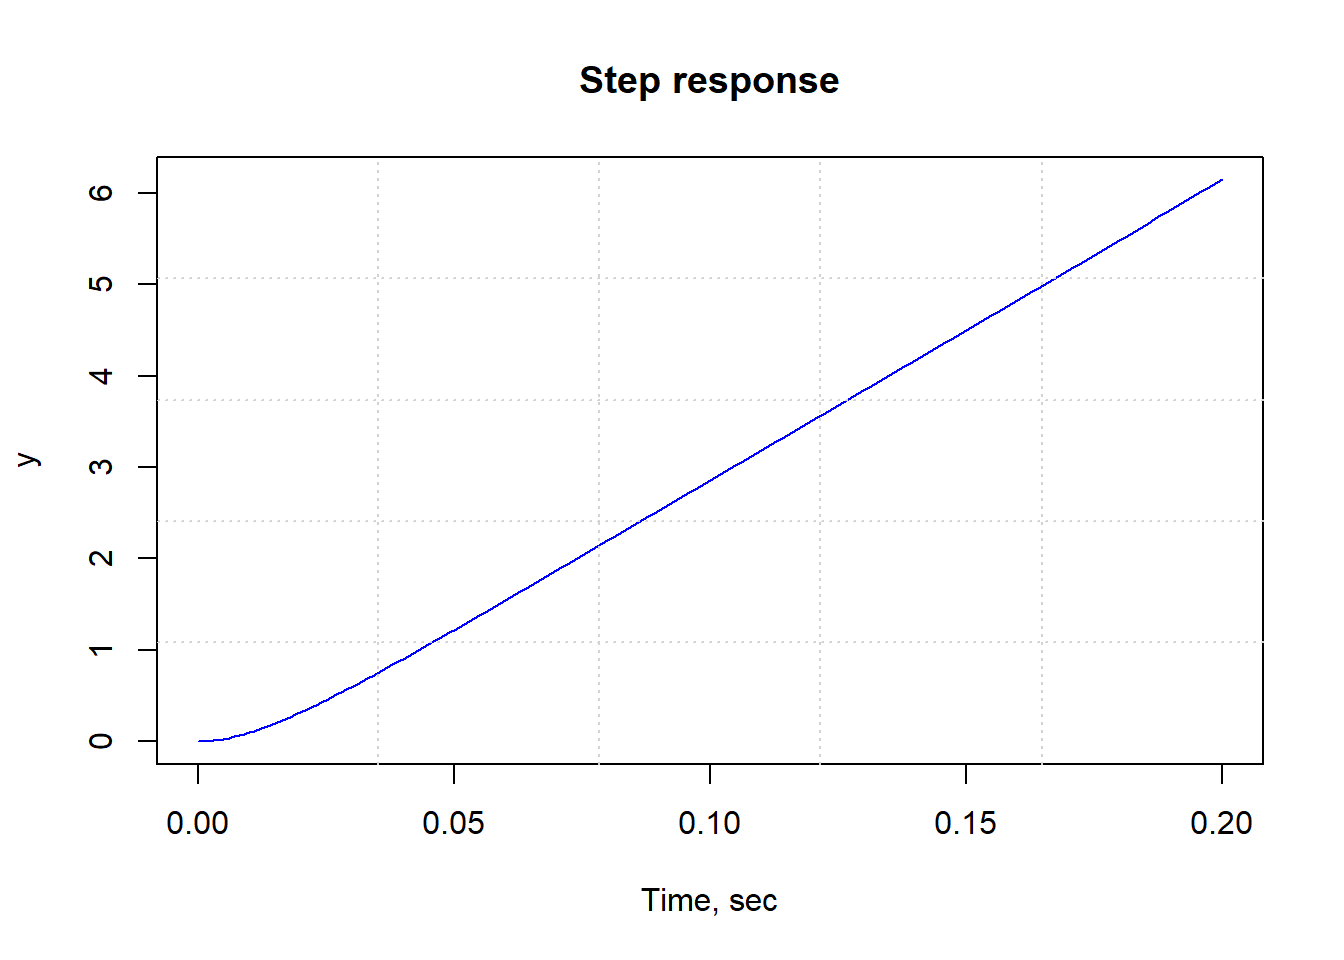
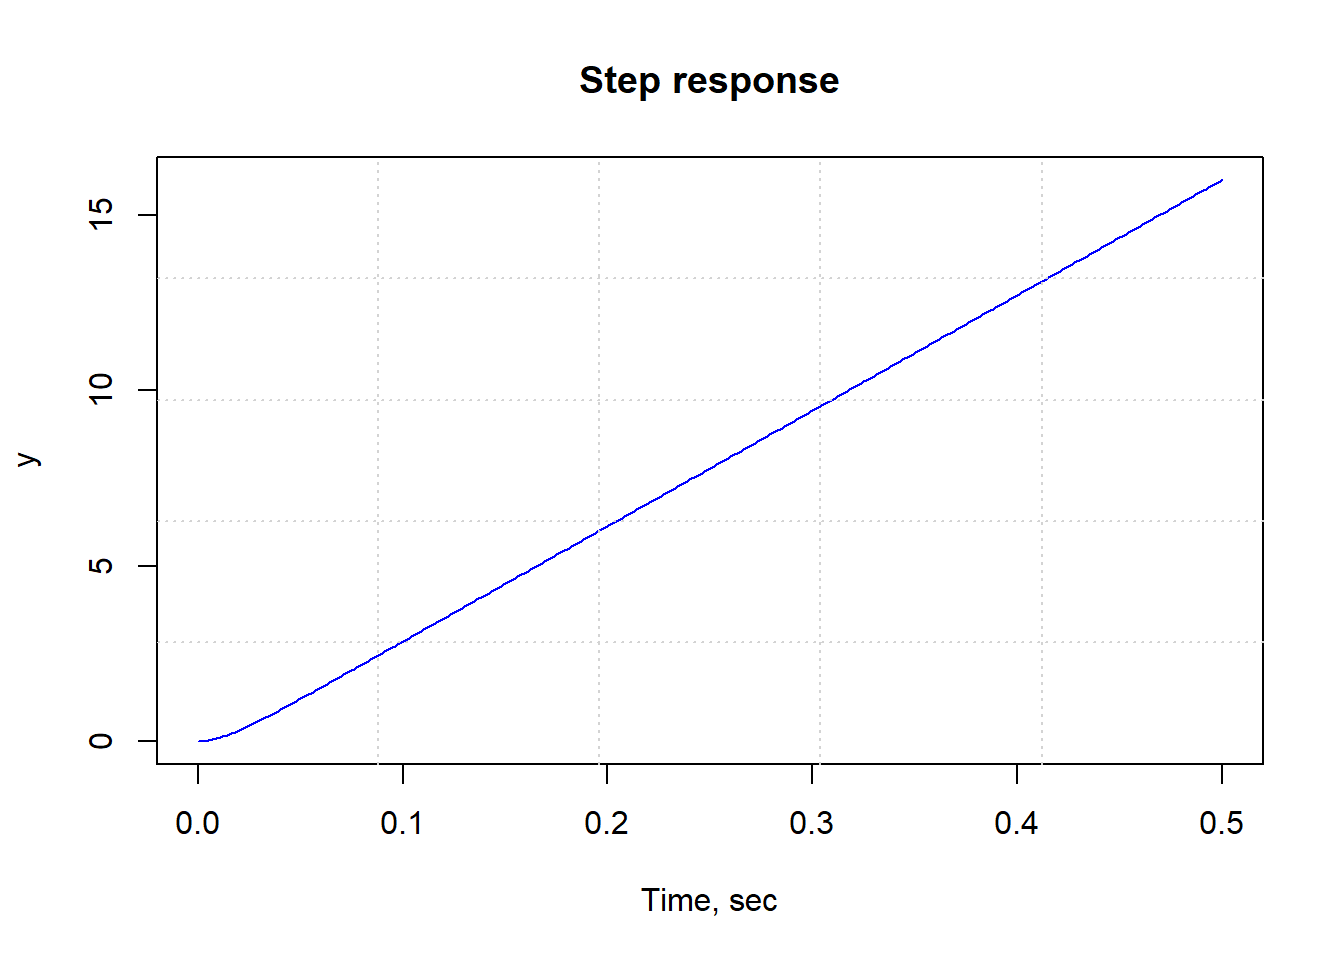
'last commit after hard day"

diff --git a/docs/index.html b/docs/index.html
@@ -417,7 +417,7 @@ p &lt;- 0.03;
 d &lt;- 4;
 w &lt;- 0.000003;
 Controller &lt;- TF(&quot;p/(s*((e*s + m)*(w*s + d) + p^2))&quot;)
-time &lt;- seq(0,0.2,0.001)</code></pre>
+time &lt;- seq(0,0.5,0.0010)</code></pre>
 </div>
 </div>
 <div id="results" class="section level1">
